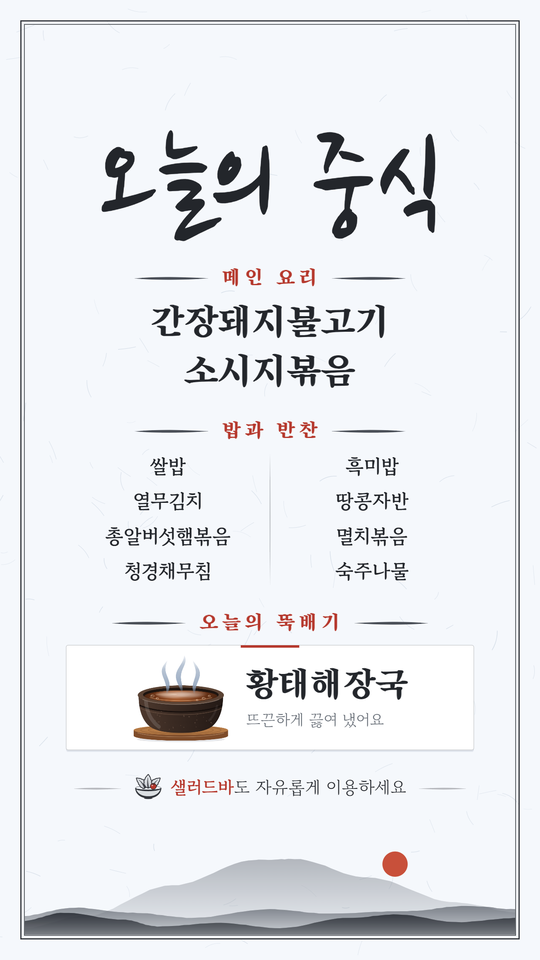
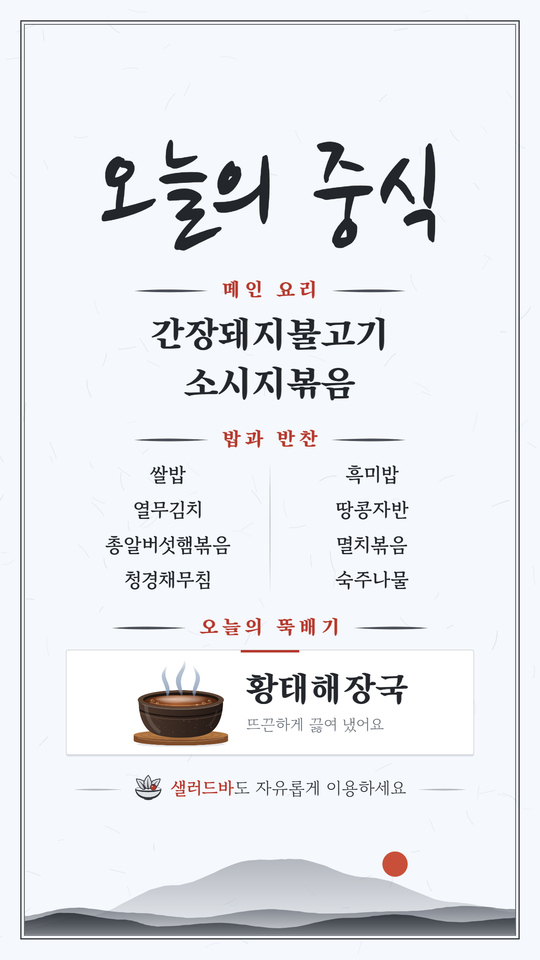
스토리 판형 다듬기: 제목 여백, 저장 버튼 판형 표시, 인스타 가림 영역 여유
- 제목 아래 여백 14 (날짜 줄이 빠져 '메인 요리'가 제목에 붙어 보이던 것)
- 스토리를 고르면 저장 버튼을 '스토리 이미지 저장·공유'로, 공유 안내를 인스타그램 안내로 바꿈
- 스토리 내용 시작을 290 → 314 로 내려 붓글씨 획이 인스타 위쪽 가림에 닿지 않게
- 판형을 바꿀 때 미리보기가 잠깐 늘어나 보이지 않게 비율을 다시 그릴 때 같이 바꿈
- PC 에서 미리보기가 창 높이 안에 들어오게, 판형 선택 버튼 44px
- 샐러드 문구는 괄호 안에서 줄을 나누지 않음, 스토리 바탕 캐시는 1배로
- 문서 수치·미리보기 그림 갱신

Changed region(s): [[0.1778, 0.125, 0.8296, 0.8438], [0.7704, 0.125, 0.8, 0.1562]]

diff --git a/index.html b/index.html
@@ -54,6 +54,11 @@ body{margin:0;background:var(--bg);color:var(--text);font-family:'Gowun Dodum',-
 .sheet.story{aspect-ratio:1080/1920;max-width:min(620px,36vh)}
 .sheet canvas,.sheet img{display:block;width:100%;height:100%}
 .fmt{display:flex;justify-content:center;gap:8px;flex-wrap:wrap;margin:0 auto 12px}
+.fmt .chip{min-height:44px;font-size:16px}
+@media (min-width:920px){   /* PC: 고정된 미리보기가 창 높이 안에 들어오게 */
+  .sheet{max-width:min(620px,calc((100vh - 130px)*1240/1754))}
+  .sheet.story{max-width:min(620px,calc((100vh - 130px)*1080/1920))}
+}
 .sheet img{-webkit-touch-callout:default}
 .preview-note{max-width:620px;margin:10px auto 0;text-align:center;font-size:14px;color:var(--muted);min-height:1.5em}
 .panel{background:var(--surface);border:1px solid var(--line);border-radius:18px;padding:20px 20px 0;display:flex;flex-direction:column;gap:20px;min-width:0}
@@ -270,7 +275,7 @@ details[open] summary::before{transform:rotate(45deg)}
     fmt: state.fmt
   });
 
-  // ---------- 메뉴판 그리기 (A4: 1240 x 1754 기준 단위) ----------
+  // ---------- 메뉴판 그리기 (가로 1240 기준 단위, 세로는 geo(fmt)) ----------
   const C = {
     paper:'#F5F8FC', fiber:'#C7D2DF', ink:'#23262B', muted:'#636A73', stroke:'#4A4F57',
     seal:'#B5372B', hair:'rgba(35,38,43,0.24)',
@@ -285,7 +290,7 @@ details[open] summary::before{transform:rotate(45deg)}
   // 판형별 세로 치수. 스토리는 1080x1920 비율이고, 위 15%·아래 15.6%는 인스타 화면(프로필·메시지 줄)에 가려지니 글을 두지 않음
   const geo = fmt => {
     const st = fmt === 'story', H = st ? 1920*W/1080 : 1754, BAND_Y = H - IY - BAND_H;
-    const CT = st ? 290 : IY + 40, CB = st ? Math.min(BAND_Y - 10, H - 344) : BAND_Y - 10;   // 아래는 해(붉은 원)에 닿지 않게
+    const CT = st ? 314 : IY + 40, CB = st ? Math.min(BAND_Y - 10, H - 344) : BAND_Y - 10;   // 아래는 해(붉은 원)에 닿지 않게
     return { H, BAND_Y, CT, CB, CH: CB - CT, kMax: st ? 1.12 : 1, out: st ? [1080, 1920] : [W*2, 3508] };
   };
   const POT_CW = 240, POT_CH = 224, POT_W = 200, POT_H = POT_W*POT_CH/POT_CW;   // 뚝배기 캐시 크기 · 그릴 크기
@@ -350,8 +355,8 @@ details[open] summary::before{transform:rotate(45deg)}
 
 
   // 한지 섬유결
-  function makePaper(H) {
-    const sc = 2, cv = document.createElement('canvas'); cv.width = W*sc; cv.height = Math.ceil(H*sc);
+  function makePaper(H, sc) {
+    const cv = document.createElement('canvas'); cv.width = W*sc; cv.height = Math.ceil(H*sc);
     const c = cv.getContext('2d'); c.scale(sc, sc);
     c.fillStyle = C.paper; c.fillRect(0, 0, W, H);
     const rnd = seeded(7), U = (lo, hi) => lo + (hi - lo)*rnd();
@@ -547,7 +552,9 @@ details[open] summary::before{transform:rotate(45deg)}
     const cand = [], sp = [];
     let p = 0;
     for (const [t, st] of segs) { if (!st) for (let j = 0; j < t.length; j++) (t[j] === ' ' ? sp : cand).push(p + j); p += t.length; }
-    const list = sp.length ? sp.map(i => [i, 1]) : cand.filter(i => i > 0).map(i => [i, 0]);
+    const full = segs.map(s => s[0]).join(''), open = i => full.slice(0, i).split('(').length > full.slice(0, i).split(')').length;
+    const out = sp.filter(i => !open(i)), use = out.length ? out : sp;   // 괄호 안 띄어쓰기에서는 되도록 나누지 않음
+    const list = use.length ? use.map(i => [i, 1]) : cand.filter(i => i > 0).map(i => [i, 0]);
     let best = null, bd = 1e9;
     for (const [i, skip] of list) { const dd = Math.abs(segsW(MC, cutSegs(segs, i, skip)[0], SS) - w/2); if (dd < bd) { bd = dd; best = cutSegs(segs, i, skip); } }
     return best && best[0].length && best[1].length ? { lines: best, h: (SL + SLH)*f, w, f } : { lines: [segs], h: SL*f, w, f };
@@ -582,7 +589,7 @@ details[open] summary::before{transform:rotate(45deg)}
   function blocksOf(d, c, wrap) {
     const b = [], fs = d.fs;
     const tf = d.title ? titleF(c, d) : 1;
-    if (d.title) b.push({ t: 'head', h: 212*tf, tf });
+    if (d.title) b.push({ t: 'head', h: (212 + 14)*tf, tf });   // 제목 아래 숨 쉴 자리 14
     const secT = t => t ? 70 : 0;
     if (d.mains.length) b.push({ t: 'mains', h: secT(d.mainsTitle) + d.mains.length*89*fs.mains + (d.mains.length - 1)*12 });
     if (d.sides.length) {
@@ -614,7 +621,7 @@ details[open] summary::before{transform:rotate(45deg)}
 
   function draw(c, scale, d) {
     const { H, BAND_Y, CT, CH, kMax } = geo(d.fmt);
-    if (!PAPER[d.fmt]) PAPER[d.fmt] = makePaper(H);
+    if (!PAPER[d.fmt]) PAPER[d.fmt] = makePaper(H, d.fmt === 'story' ? 1 : 2);
     if (!BAND) BAND = makeBand();
     if (!POT) POT = makePot();
     if (!SALAD_IC) SALAD_IC = makeSalad();
@@ -728,7 +735,7 @@ details[open] summary::before{transform:rotate(45deg)}
   const fmtBtns = [...document.querySelectorAll('.chip[data-fmt]')];
   const syncFmt = () => {
     fmtBtns.forEach(b => b.setAttribute('aria-pressed', String(b.dataset.fmt === state.fmt)));
-    sheet.classList.toggle('story', state.fmt === 'story');
+    syncSave();
   };
   fmtBtns.forEach(b => b.addEventListener('click', () => { state.fmt = b.dataset.fmt; syncFmt(); onChange(); }));
   let seq = 0, timer = null;
@@ -738,8 +745,9 @@ details[open] summary::before{transform:rotate(45deg)}
     if (my !== seq) return;
     const ph = Math.ceil(geo(d.fmt).H);
     if (pv.height !== ph) pv.height = ph;
+    sheet.classList.toggle('story', d.fmt === 'story');
     const { k } = draw(pv.getContext('2d'), 1, d);
-    note.textContent = (d.fmt === 'story' ? '인스타 스토리 크기(1080×1920)로 저장돼요. ' : '') + (k < 0.9 ? '메뉴가 많아서 글씨를 조금 줄였어요.' : '');
+    note.textContent = (d.fmt === 'story' ? '이미지는 인스타 스토리 크기(1080×1920)로, 인쇄용 PDF는 A4로 저장돼요. ' : '') + (k < 0.9 ? '메뉴가 많아서 글씨를 조금 줄였어요.' : '');
     schedulePrebuild();
   }
   function onChange() { persist(); syncChips(); clearTimeout(timer); timer = setTimeout(renderPreview, 120); }
@@ -756,8 +764,15 @@ details[open] summary::before{transform:rotate(45deg)}
       return !!(window.isSecureContext && navigator.canShare && navigator.share && navigator.canShare({ files: [f] }));
     } catch (e) { return false; }
   })();
-  // 가운데 점 앞뒤(\u2060)로는 줄을 나누지 않아 폰에서는 '이미지 / 저장·공유'로만 나뉨
-  if (canShareFiles) { btnPng.textContent = '이미지 저장\u2060·\u2060공유'; $('share-hint').hidden = false; }
+  // 저장 버튼에 지금 판형을 보여 줌 (어제 스토리로 둔 채 카톡에 보내지 않게). 가운데 점 앞뒤(\u2060)로는 줄을 나누지 않음
+  const shareHint = $('share-hint');
+  function syncSave() {
+    const st = state.fmt === 'story';
+    btnPng.textContent = (st ? '스토리 ' : '') + (canShareFiles ? '이미지 저장\u2060·\u2060공유' : '이미지 저장');
+    shareHint.hidden = !canShareFiles;
+    shareHint.textContent = st ? '공유 창에서 인스타그램을 고르면 스토리로 올릴 수 있어요. 아이폰은 ‘이미지 저장’을 누르면 사진첩에 저장돼요.'
+      : '공유 창에서 카카오톡을 고르면 바로 보낼 수 있어요. 아이폰은 ‘이미지 저장’을 누르면 사진첩에 저장돼요.';
+  }
 
   const baseName = () => {
     const now = new Date();

diff --git a/tools/render.js b/tools/render.js
@@ -1,5 +1,5 @@
 // 사용법: node render.js <index.html 또는 주소> <출력.png> [states/상태.json]
-// 메뉴판 캔버스(#pv, 1240x1754)를 PNG 로 저장하고 {fonts, note, errors} 를 출력한다.
+// 메뉴판 캔버스(#pv, A4 1240x1754 · 스토리 1240x2205)를 PNG 로 저장하고 {fonts, note, errors} 를 출력한다.
 // 상태 파일({"jeju-menu-v1": {...}})을 주면 localStorage 에 넣고 연다. 없으면 빈 상태(기본 메뉴).
 const fs = require('fs');
 const path = require('path');

diff --git a/CLAUDE.md b/CLAUDE.md
@@ -43,7 +43,7 @@
 - 입력칸 자동 높이, 제목 칩(오늘의 중식/석식)이 있어요.
 - '예시 메뉴로 되돌리기'는 3초 안에 두 번 눌러야 실행되고, 글씨 크기는 그대로 둬요.
 - 글씨 크기 −/+ 버튼이 있고, '모두 보통(100%)으로'는 한 번에 바로 실행돼요.
-- 미리보기 위에 만들 크기 선택(A4 메뉴판 / 인스타 스토리)이 있어요(`syncFmt`). 스토리 미리보기는 폰에서 너무 길지 않게 폭을 최대 36vh(높이로는 약 64vh)로 제한해요.
+- 미리보기 위에 만들 크기 선택(A4 메뉴판 / 인스타 스토리)이 있어요(`syncFmt`). 스토리를 고르면 저장 버튼이 '스토리 이미지 저장·공유'로, 공유 안내가 인스타그램 안내로 바뀌어요(`syncSave`). 미리보기 비율 클래스는 캔버스를 다시 그릴 때 같이 바꿔요. 스토리 미리보기는 폰에서 너무 길지 않게 폭을 최대 36vh(높이로는 약 64vh)로 제한해요.
 
 ### 3. `model()`
 
@@ -55,15 +55,15 @@
 
 - 가로는 늘 1240 기준이고, 세로와 내용 영역은 `geo(fmt)`가 정해요.
   - A4: 1240×1754. 미리보기는 scale 1, 이미지·PDF 저장은 scale 2(2480×3508)예요.
-  - 스토리: 1240×2204.4(= 1080×1920 비율). 저장은 scale 1080/1240로 1080×1920이에요. 인스타 화면에 가려지는 위아래(1920 기준 약 250px)를 피하려고 내용은 `CT` 290 ~ `CB` H−344 안에만 두고, 배율 `k`는 최대 1.12까지 키워요.
+  - 스토리: 1240×2204.4(= 1080×1920 비율). 저장은 scale 1080/1240로 1080×1920이에요. 인스타 화면에 가려지는 위아래(1920 기준 약 250px)를 피하려고 내용은 `CT` 314 ~ `CB` H−344 안에만 둬요. 붓글씨 획이 블록 위로 20쯤 삐져나와서 314로 잡았어요. 배율 `k`는 최대 1.12까지 키워요.
   - 세로 치수(`H`, `BAND_Y`, `CT`, `CB`, `CH`, `kMax`)를 모듈 상수로 되돌리지 마세요. 판형마다 달라요.
 - **`blocksOf(d, c, wrap)`**: 블록의 높이와 줄 나눔을 정하는 유일한 곳이에요. 블록은 `head` 제목, `mains`, `sides`, `soup`, `salad`, `closing`이에요.
 - **배율 k:**
-  - `draw`는 블록 높이 합이 `CT`~`CB`에 들어가도록 배율 `k`(≤1)를 구해 모든 크기에 곱해요.
+  - `draw`는 블록 높이 합이 `CT`~`CB`에 들어가도록 배율 `k`(≤ `kMax`: A4 1, 스토리 1.12)를 구해 모든 크기에 곱해요.
   - k가 0.9보다 작으면 미리보기 아래에 "메뉴가 많아서 글씨를 조금 줄였어요."가 떠요.
   - 새 요소는 `blocksOf`에 높이를 넣고, `draw`에서도 같은 수치×k로 그려야 넘치지 않아요.
 - **`draw`는 `d`만 읽어야 해요.** 저장 파일 캐시의 키가 `JSON.stringify(model())`이라서, `state`에서 바로 읽어 그린 옵션은 바꿔도 저장 파일에 반영되지 않아요.
-- 바탕 섬유결·수묵 산·뚝배기·샐러드 아이콘은 오프스크린 캔버스에 2배로 한 번만 그려 캐시해요(`makePaper`, `makeBand`, `makePot`, `makeSalad`). 바탕(`PAPER`)은 높이가 달라서 판형마다 따로 캐시해요.
+- 바탕 섬유결·수묵 산·뚝배기·샐러드 아이콘은 오프스크린 캔버스에 2배로 한 번만 그려 캐시해요(`makePaper`, `makeBand`, `makePot`, `makeSalad`). 바탕(`PAPER`)은 높이가 달라서 판형마다 따로 캐시해요(스토리는 1배로만 쓰여서 1배로 만들어 메모리를 아껴요).
 - 색은 `C`, 글꼴은 `SONG`/`BRUSH`/`BAT7`/`BAT4` 함수로 써요.
 - 그리기 시작할 때 `lineJoin`/`lineCap`을 초기화해요. 앞서 그린 글자의 설정이 테두리에 남지 않게 하려는 거예요.
 

diff --git a/docs/design.md b/docs/design.md
@@ -34,7 +34,7 @@
 | 이름 | 값 | 쓰는 곳 |
 |---|---|---|
 | paper | #F5F8FC | 바탕 |
-| fiber | #C7D2DF | 한지 섬유결 (120가닥, 고정 시드) |
+| fiber | #C7D2DF | 한지 섬유결 (A4 120가닥, 스토리는 높이에 비례해 151가닥, 고정 시드) |
 | ink | #23262B | 제목·메뉴 글씨, 테두리 |
 | muted | #636A73 | 국 설명, '샐러드바 · '의 가운뎃점 |
 | stroke | #4A4F57 | 칸 제목 양옆 붓선 |
@@ -47,13 +47,13 @@
 
 | 요소 | 글꼴 | 크기 | 기타 |
 |---|---|---|---|
-| 제목 | Nanum Brush Script | 236 | 획을 조금 덧그려 굵게(0.024). 가로폭(936)을 넘으면 줄임 |
+| 제목 | Nanum Brush Script | 236 | 획을 조금 덧그려 굵게(0.024). 가로폭(936)을 넘으면 줄임. 아래에 14만큼 여백 |
 | 칸 제목 | Song Myung | 42 | 빨강, 자간 0.22, 양옆에 길이 150의 붓선 |
 | 메인 메뉴 | Song Myung | 78 | 가운데 정렬 |
 | 밥과 반찬 | Gowun Batang 700 | 40 | 두 단, 줄 간격 72 |
 | 국 이름 | Song Myung | 74 | 56보다 작아질 만큼 길면 두 줄 |
 | 국 설명 | Gowun Batang 400 | 32 | muted |
-| 샐러드바 줄 | Gowun Batang | 36 | '샐러드(바)'만 700 빨강, 나머지 400. 문구에 '샐러드'가 없으면 앞에 '샐러드바 · '를 붙임(가운뎃점은 muted). 한 줄로는 크게 줄어들 만큼 길면 두 줄 |
+| 샐러드바 줄 | Gowun Batang | 36 | '샐러드(바)'만 700 빨강, 나머지 400. 문구에 '샐러드'가 없으면 앞에 '샐러드바 · '를 붙임(가운뎃점은 muted). 한 줄로는 크게 줄어들 만큼 길면 두 줄(괄호 안에서는 나누지 않음) |
 | 맨 아래 인사말 | Song Myung | 40 | 빨강 |
 
 글씨 크기 조절은 위 크기와 해당 칸 높이에 배율을 곱해요. 제목은 가로폭이 차면 더 커지지 않아요.
@@ -74,7 +74,7 @@
 ## 인스타 스토리 (1080×1920)
 
 - **크기:** 가로 1240 기준을 그대로 두고 세로만 2204.4(= 1920×1240/1080)로 늘려 그린 뒤, 1080×1920으로 저장해요. 그래서 글꼴·배치 수치는 A4와 같아요.
-- **가려지는 곳:** 인스타 스토리는 위아래 약 250px(1920 기준)이 프로필 줄과 메시지 입력 줄에 가려져요. 그래서 메뉴 글씨는 위 290(실제 약 253px) 아래부터, 아래 344(실제 약 300px) 위에서 끝나요. 테두리와 수묵 산·해는 장식이라 가려지는 곳에 있어도 괜찮아요.
+- **가려지는 곳:** 인스타 스토리는 위아래 약 250px(1920 기준)이 프로필 줄과 메시지 입력 줄에 가려져요. 그래서 메뉴 글씨는 위 314(실제 약 273px) 아래부터, 아래 344(실제 약 300px) 위에서 끝나요. 붓글씨 제목은 획이 위로 조금 삐져나와서 위쪽을 넉넉히 뒀어요. 테두리와 수묵 산·해는 장식이라 가려지는 곳에 있어도 괜찮아요.
 - **글씨 크기:** 세로가 긴 만큼 전체 배율을 A4보다 최대 1.12배까지 키워요.
 - **PDF:** 인쇄용이라 스토리를 골라도 늘 A4로 만들어요.
 

diff --git a/README.md b/README.md
@@ -4,7 +4,7 @@
 
 **👉 https://kimjuneseo.github.io/menu/**
 
-<img src="docs/preview.png" alt="A4 메뉴판 미리보기" width="320"> <img src="docs/preview-story.png" alt="인스타 스토리 미리보기" width="226">
+<img src="docs/preview.png" alt="A4 메뉴판 미리보기" width="320"> <img src="docs/preview-story.png" alt="인스타 스토리 미리보기" width="255">
 
 ## 식당에서 쓰는 법
 
@@ -20,7 +20,7 @@
    - '샐러드'라는 말이 없으면 앞에 '샐러드바 ·'가 자동으로 붙어요.
 5. 미리보기 위에서 **A4 메뉴판** / **인스타 스토리** 중 만들 크기를 골라요. 고른 크기는 그 폰에 기억돼요.
 6. 저장·공유
-   - **이미지 저장·공유**를 누르면 고른 크기로 이미지를 만들어 폰 공유 창을 띄워요. 아이폰에서는 '이미지 저장'을 고르면 사진첩에 저장되고, 카카오톡을 고르면 바로 보내져요.
+   - **이미지 저장·공유**를 누르면 고른 크기로 이미지를 만들어 폰 공유 창을 띄워요. 스토리를 골랐을 때는 버튼이 **스토리 이미지 저장·공유**로 바뀌어요. 아이폰에서는 '이미지 저장'을 고르면 사진첩에 저장되고, 카카오톡을 고르면 바로 보내져요.
    - 인스타 스토리는 1080×1920 크기예요. 공유 창에서 인스타그램 → 스토리를 고르거나, 사진첩에 저장한 뒤 스토리에 올리면 돼요. 위아래는 인스타 화면에 가려지는 곳이라 메뉴 글씨를 비워 뒀어요.
    - **인쇄용 PDF**는 A4로 출력할 때 써요. 인스타 스토리를 골라도 PDF는 A4로 나와요.
    - 처음 누를 때 "한 번 더 눌러 주세요"가 뜨면 한 번 더 누르면 돼요.
